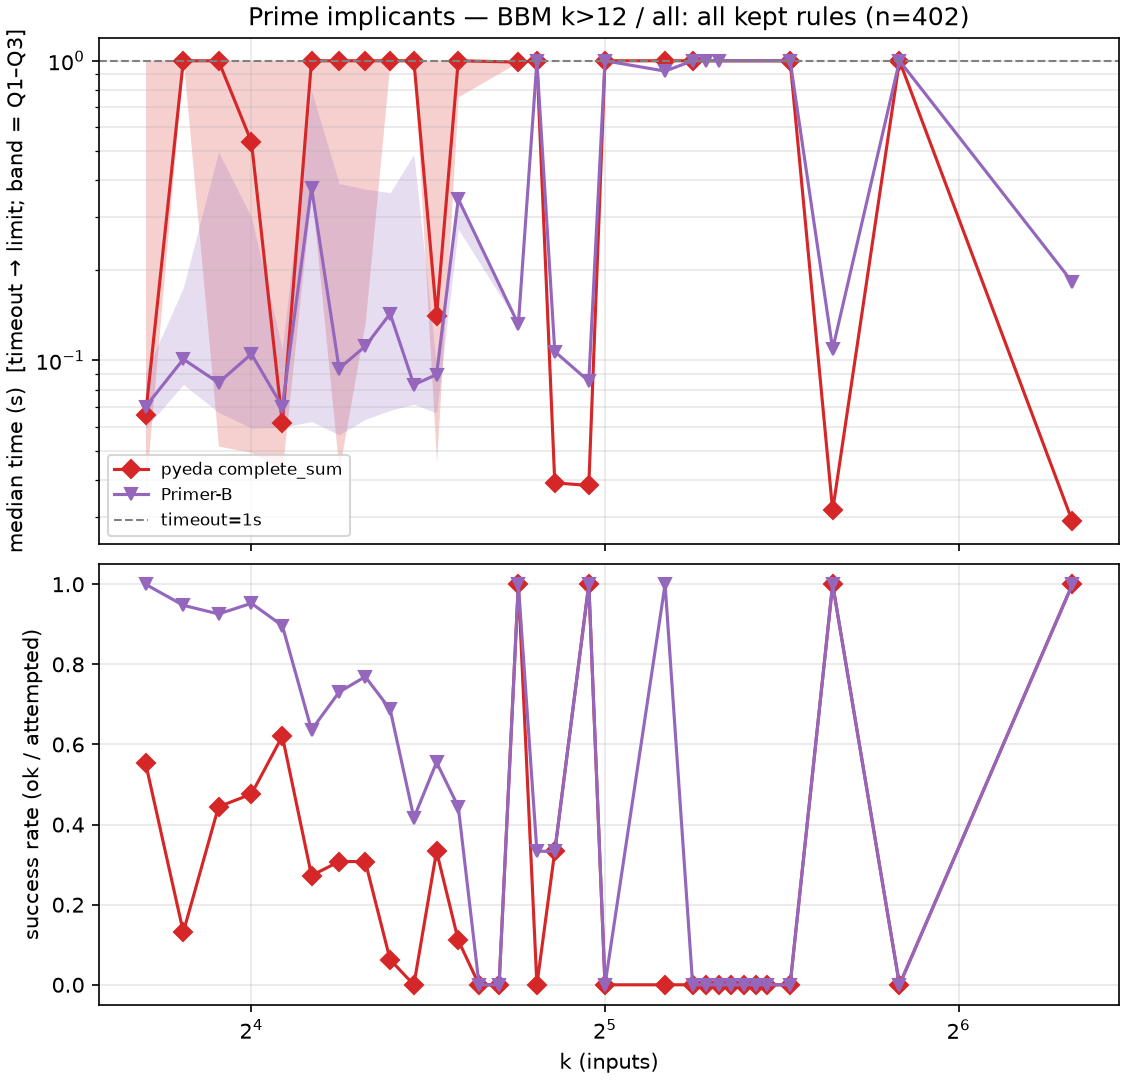
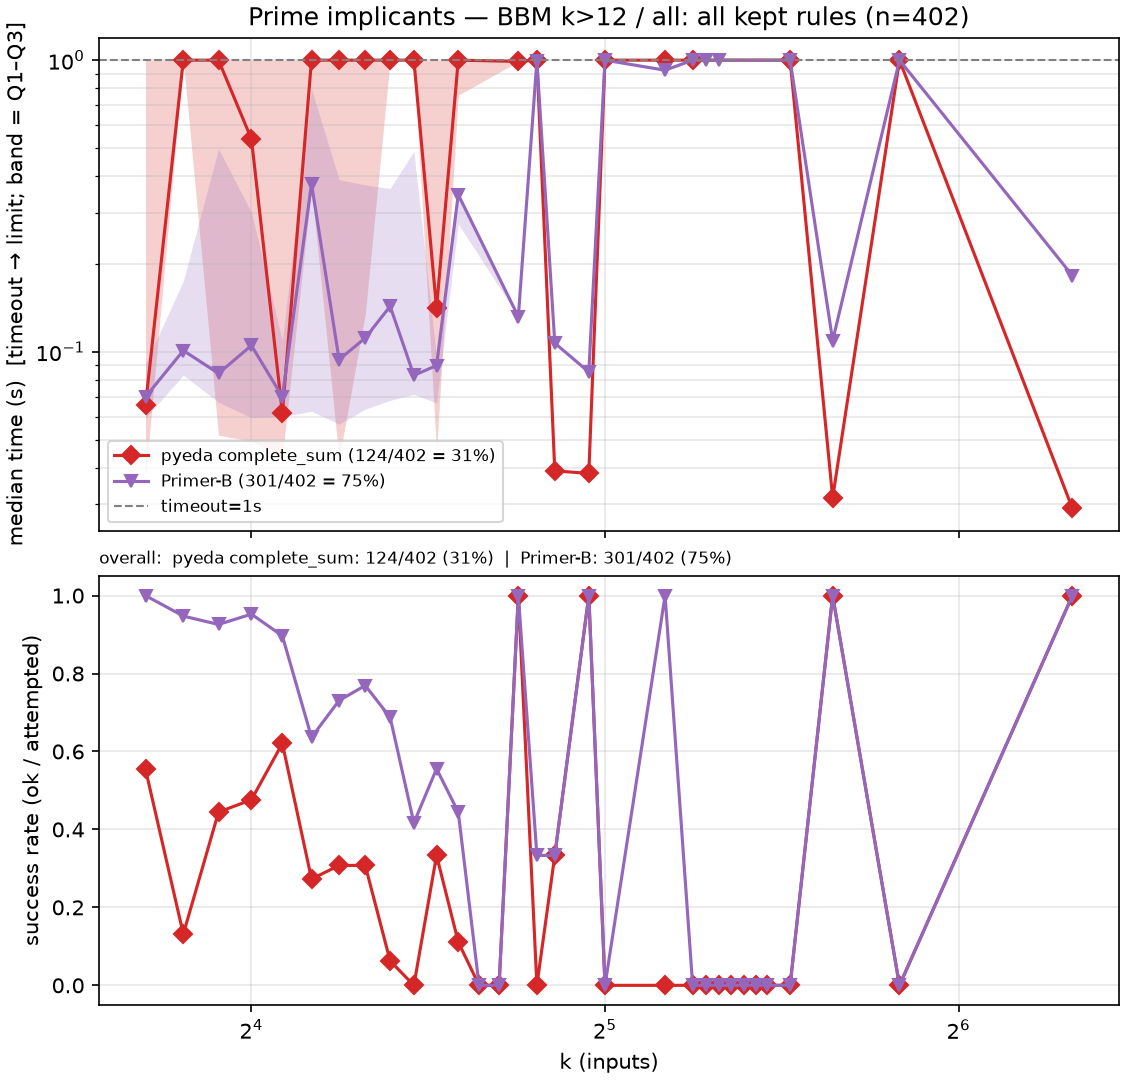
Modify figures to show success ratio

diff --git a/dev/high_k/notebooks/bbm_high_k_primes_compare.py b/dev/high_k/notebooks/bbm_high_k_primes_compare.py
@@ -23,7 +23,9 @@
 #
 # Timing plots / cohort summaries treat ``timeout`` as ``TIMEOUT_S``.  Each
 # figure stacks **median** time with Q1–Q3 shading (top) and success rate
-# (bottom) on a shared *k* axis; method color/marker are fixed.
+# (bottom) on a shared *k* axis; method color/marker are fixed.  Legend
+# labels also show overall slice success as ``ok/attempted`` (e.g. ROF
+# figure: total ok / total ROF rows per method).
 #
 # Set ``REGENERATE_FROM_LOG_ONLY = True`` to rebuild figures from the existing
 # timing log without re-running the BBM sweep (does not overwrite that log).
@@ -672,13 +674,38 @@ def _success_series_by_k(
     return ks, [sum(by_k[k]) / len(by_k[k]) for k in ks]
 
 
+def _overall_success(
+    subset: List[Dict[str, Any]], mid: str
+) -> Tuple[int, int, Optional[float]]:
+    """Overall ``(n_ok, n_attempted, rate)`` for a method on a slice.
+
+    ``skip`` is excluded from attempted.  Rate is ``None`` if nothing attempted.
+    """
+    st_key = META_BY_ID[mid][2]
+    n_ok = 0
+    n_att = 0
+    for r in subset:
+        st = str(r[st_key])
+        if st == "skip":
+            continue
+        n_att += 1
+        if st == "ok":
+            n_ok += 1
+    if n_att == 0:
+        return 0, 0, None
+    return n_ok, n_att, n_ok / n_att
+
+
 def plot_time_and_success_vs_k(
     subset: List[Dict[str, Any]],
     method_ids: Tuple[str, ...],
     title: str,
     outfile: Path,
 ) -> None:
-    """Stacked panels: median±IQR time (top) and success rate (bottom)."""
+    """Stacked panels: median±IQR time (top) and success rate (bottom).
+
+    Legend labels include overall slice success ``ok/attempted (pct%)``.
+    """
     fig, (ax_t, ax_s) = plt.subplots(
         2,
         1,
@@ -688,8 +715,17 @@ def plot_time_and_success_vs_k(
         gridspec_kw={"height_ratios": [1.15, 1.0]},
     )
     any_series = False
+    overall_parts: List[str] = []
     for mid in method_ids:
         _mid, _t_key, _st, label, marker, color = META_BY_ID[mid]
+        n_ok, n_att, rate = _overall_success(subset, mid)
+        if rate is None:
+            overall_label = f"{label} (n/a)"
+            overall_parts.append(f"{label}: n/a")
+        else:
+            pct = 100.0 * rate
+            overall_label = f"{label} ({n_ok}/{n_att} = {pct:.0f}%)"
+            overall_parts.append(f"{label}: {n_ok}/{n_att} ({pct:.0f}%)")
         style = dict(marker=marker, linestyle="-", color=color)
         ks_t, meds, q1s, q3s = _time_series_by_k(subset, mid)
         if ks_t:
@@ -697,7 +733,7 @@ def plot_time_and_success_vs_k(
             ax_t.fill_between(
                 ks_t, q1s, q3s, color=color, alpha=0.22, linewidth=0
             )
-            ax_t.plot(ks_t, meds, label=label, **style)
+            ax_t.plot(ks_t, meds, label=overall_label, **style)
         ks_s, rates = _success_series_by_k(subset, mid)
         if ks_s:
             any_series = True
@@ -722,12 +758,20 @@ def plot_time_and_success_vs_k(
     ax_s.set_ylim(-0.05, 1.05)
     ax_s.set_xlabel("k (inputs)")
     ax_s.set_ylabel("success rate (ok / attempted)")
+    if overall_parts:
+        ax_s.set_title(
+            "overall:  " + "  |  ".join(overall_parts),
+            fontsize=8,
+            loc="left",
+        )
     ax_s.grid(True, which="both", alpha=0.3)
 
     outfile.parent.mkdir(parents=True, exist_ok=True)
     fig.savefig(outfile, dpi=150)
     plt.close(fig)
     log.info(f"wrote {outfile}")
+    if overall_parts:
+        log.info(f"  overall success: {' | '.join(overall_parts)}")
 
 
 def _rows_for_plot_slice(slice_id: str) -> List[Dict[str, Any]]:
